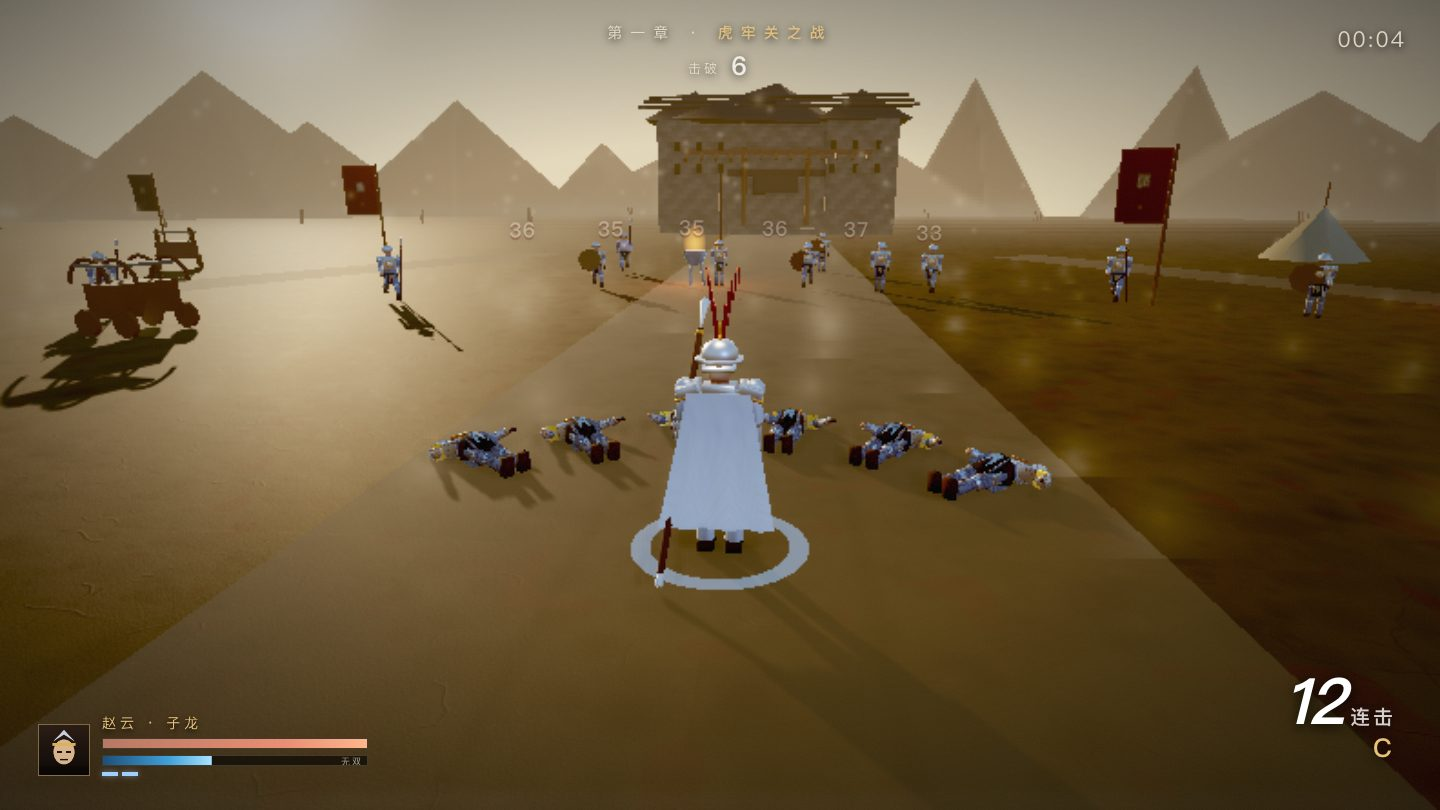
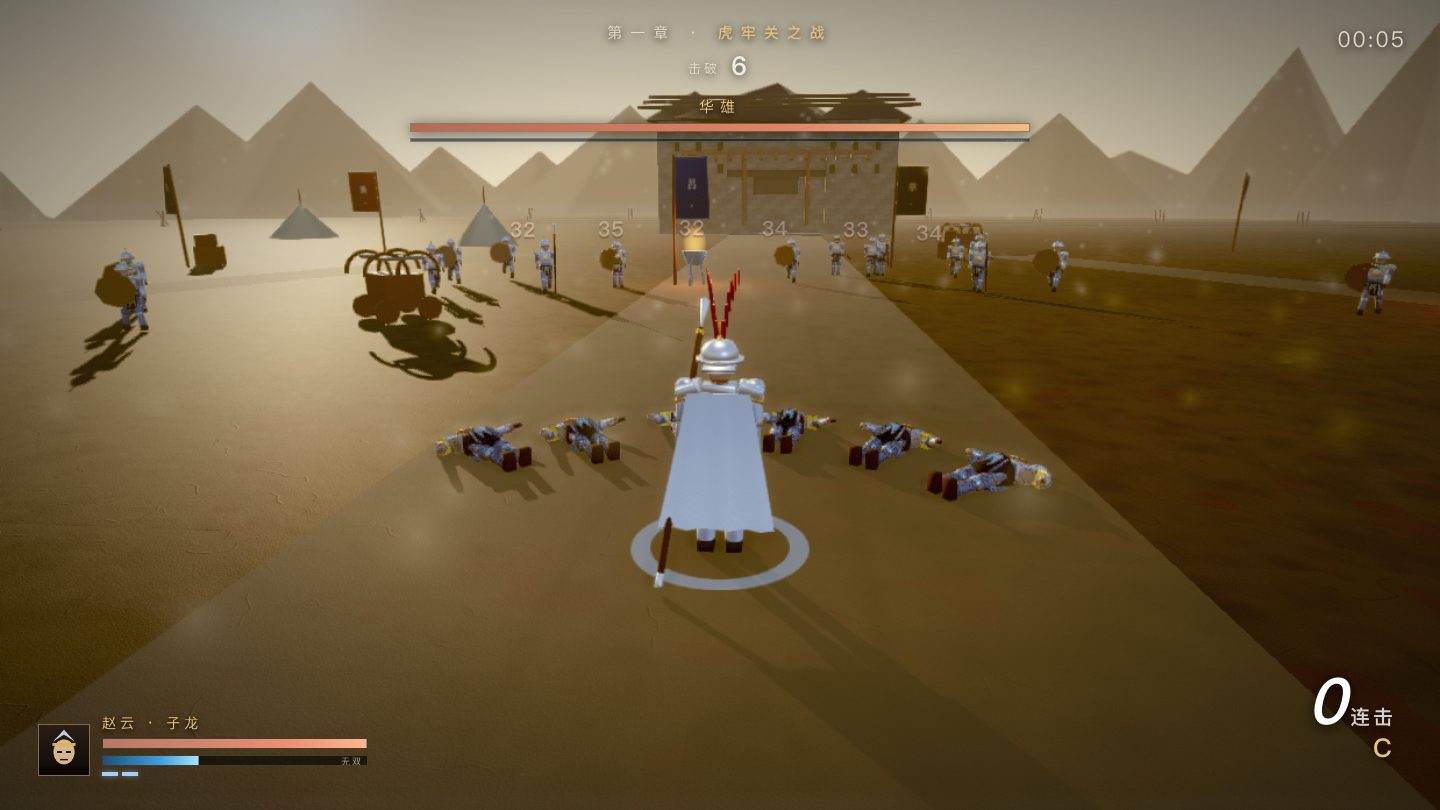
feat: 吕布第二技能——旋风斩（与冲锋随机择一）
- 技能参数表化：sweep(.85/.18/.75) / charge(.85/.45/.75) / whirl(.80/1.20/.70)
- 旋风斩：0.80s 前摇 → 1.20s 高速自转(16 rad/s) → 3 段 4.6m 范围伤害
  每段 12 点（共 36），可格挡（非红色大招），逼玩家拉开距离
- damagePlayer 增加 invulnT 参数：旋风每段压到 0.12s，三段都能命中
  （原先沿用 0.8s 无敌帧，三段只吃到一段 = 13 点）
- 吕布每次在 charge/whirl 间随机；华雄固定 sweep
- 实测（吕布）：技能分布 charge 4 / whirl 4，旋风伤害 30-36、冲锋 26
- 实战 40s：whirl 313 帧 / charge 248 帧，boss 1500→619，玩家 120→0（21s 阵亡）
- 验收：18/18 + 15/15（P10 59.7fps / 保持率 0.995）

diff --git a/demos/index.html b/demos/index.html
@@ -2567,7 +2567,10 @@ function updateEnemies(dt) {
 
     /* 敌将技能：独立状态，带明显前摇 */
     if (s.state === 'skill') {
-      const wind = 0.85, active = s.skillKind === 'charge' ? 0.45 : 0.18, rec = 0.75;
+      const SK = s.skillKind === 'whirl' ? { wind: .80, active: 1.20, rec: .70 }
+        : s.skillKind === 'charge' ? { wind: .85, active: .45, rec: .75 }
+        : { wind: .85, active: .18, rec: .75 };
+      const wind = SK.wind, active = SK.active, rec = SK.rec;
       if (s.t < wind) {
         s.atkP = s.t / wind;
         s.yaw = angTo(s.yaw, Math.atan2(nx, nz), dt * 3);
@@ -2590,12 +2593,33 @@ function updateEnemies(dt) {
             if (pd < 6.0 && Math.abs(angDiff(Math.atan2(player.pos.x - s.pos.x, player.pos.z - s.pos.z), s.yaw)) < 1.9) {
               damagePlayer(22, (player.pos.x - s.pos.x) / (pd || 1), (player.pos.z - s.pos.z) / (pd || 1));
             }
+          } else if (s.skillKind === 'whirl') {
+            /* 旋风斩：3 段范围伤害，无方向性，逼玩家拉开距离 */
+            SFX.swing(true); SFX.gong();
+            shockRing(s.pos, 4.6, .55, 0xff8a4a);
+            s.whirlTicks = 0;
+            s.whirlAcc = 0;
           } else {
             SFX.dash(); SFX.thud();
             shockRing(s.pos, 5.2, .5, 0xffa050);
             shake(.5, .35);
             const pd2 = Math.hypot(player.pos.x - s.pos.x, player.pos.z - s.pos.z);
             if (pd2 < 5.2) damagePlayer(26, (player.pos.x - s.pos.x) / (pd2 || 1), (player.pos.z - s.pos.z) / (pd2 || 1));
+          }
+        }
+        if (s.skillKind === 'whirl') {
+          /* 旋风：快速自转 + 每 0.4 s 一段范围伤害（共 3 段） */
+          s.yaw += dt * 16;
+          s.whirlAcc += dt;
+          while (s.whirlAcc >= 0.38 && s.whirlTicks < 3) {
+            s.whirlAcc -= 0.38; s.whirlTicks++;
+            const pdw = Math.hypot(player.pos.x - s.pos.x, player.pos.z - s.pos.z);
+            if (pdw < 4.6) {
+              /* 每段独立结算：无敌帧压到 0.12s，三段都能命中（共 36）；
+                 旋风可格挡（不是红色大招），逼玩家拉开距离而非硬格 */
+              damagePlayer(12, (player.pos.x - s.pos.x) / (pdw || 1), (player.pos.z - s.pos.z) / (pdw || 1), false, 0.12);
+            }
+            burst(_v3.copy(s.pos).setY(1.0), 8, { color: 0xffb060, speed: 7, up: 1.5, life: .3, size: .35, grav: -6 });
           }
         }
         if (s.skillKind === 'charge') {
@@ -2682,9 +2706,12 @@ function updateEnemies(dt) {
         /* 前排：正面直推 */
         if (dist > s.range * .82) { mvx = nx; mvz = nz; }
         else if (s.officer && s.skillCd <= 0 && dist < 7.5) {
-          s.state = 'skill'; s.t = 0; s.atkP = 0; s.skillDone = false;
+          /* 吕布在「冲锋 / 旋风斩」之间随机；华雄固定横扫 */
+          s.skillKind = s.name === '吕布' ? (Math.random() < .5 ? 'charge' : 'whirl') : 'sweep';
+          s.skillDone = false; s.whirlTicks = 0; s.whirlAcc = 0;
+          s.state = 'skill'; s.t = 0; s.atkP = 0;
           s.cool = 1.2;
-          callout(s.name, s.skillKind === 'charge' ? '突 击' : '横 扫');
+          callout(s.name, s.skillKind === 'charge' ? '突 击' : (s.skillKind === 'whirl' ? '旋 风 斩' : '横 扫'));
           SFX.gong();
           continue;
         }
@@ -3214,7 +3241,7 @@ function resolvePlayerHit(atk) {
 }
 
 /* ---------------- 玩家受击 / 无双 ---------------- */
-function damagePlayer(dmg, nx, nz, unblockable) {
+function damagePlayer(dmg, nx, nz, unblockable, invulnT) {
   if (player.invuln > 0 || player.dead || player.state === 'musou') return;
   if (player.airY > 0.02) dmg *= 0.5;   /* 浮空时更难被打中 */
   /* 完美闪避：闪避前 0.14 s 内被击中 → 无伤 + 子弹时间 + 返还 CD */
@@ -3290,7 +3317,7 @@ function damagePlayer(dmg, nx, nz, unblockable) {
   }
   if (G.obj && G.obj.type === 'nohit' && !G.obj.done) objFail();
   player.hp -= dmg;
-  player.hurtT = 0.32; player.invuln = 0.8;
+  player.hurtT = 0.32; player.invuln = invulnT || 0.8;
   if (player.state !== 'musou') player.musou = clamp(player.musou + 5 * player.musouMul, 0, player.maxMusou);
   player.combo = 0;
   SFX.hurt();
@@ -3909,6 +3936,7 @@ function spawnOfficer(name, hp, scale, tint) {
   s.range = TYPES.officer.range; s.reach = TYPES.officer.reach;
   /* 敌将专属技能：华雄横扫 / 吕布冲锋 */
   s.skillKind = name === '吕布' ? 'charge' : 'sweep';
+  s.whirlTicks = 0; s.whirlAcc = 0;
   s.skillCd = rand(3.5, 5.5);
   G.boss = s;
   SFX.officer();

diff --git a/README.md b/README.md
@@ -130,6 +130,9 @@ cd demos && python3 -m http.server 8000
 - **闪避派生**：闪避中按 `J` 出**闪避斩**——立即结束闪避、朝锁定目标突进 13 m/s、造成 1.15 倍伤害（stage 2 基础 34 → 约 39）。
   闪避**前 0.14 s** 内被击中触发**完美闪避**：无伤 + 0.4 s 子弹时间 + 无双槽 +8 + **返还闪避 CD**。
 - **跳跃 / 空中攻击**：起跳 7.6 m/s、重力 24 m/s²（滞空约 0.67 s、最高 1.13 m）；空中按 `J` 进入下坠斩，落地造成范围伤害并掀尘。
+- **敌将技能**：华雄**横扫**（200° 范围 + 击退）；吕布在**冲锋**（15 m/s 突进 + 震地）与**旋风斩**之间随机——
+  旋风斩 0.80 s 前摇 → 1.20 s 高速自转 → **3 段范围伤害**（每段 12，共 36，可格挡），逼玩家拉开距离而非硬格。
+  实测 40 s 实战：吕布出招 `whirl` 313 帧 / `charge` 248 帧，玩家 120 → 0（21 s 阵亡）。
 - **敌将架势与处刑**：敌将血条下多一条蓝色架势条，命中积攒（轻击 +6 / 重击 +15，3 s 不命中开始衰减）。
   攒满后靠近按 `R` 处刑：造成 `max(420, 最大生命 34%)` 伤害、回 32 体力、+18 无双槽、1.1 s 慢动作。
 - **敌将专属技能**（独立状态机，带 0.85 s 前摇）：华雄**横扫**（200° 范围 + 击退杂兵）、吕布**冲锋**（15 m/s 突进 + 震地）。
